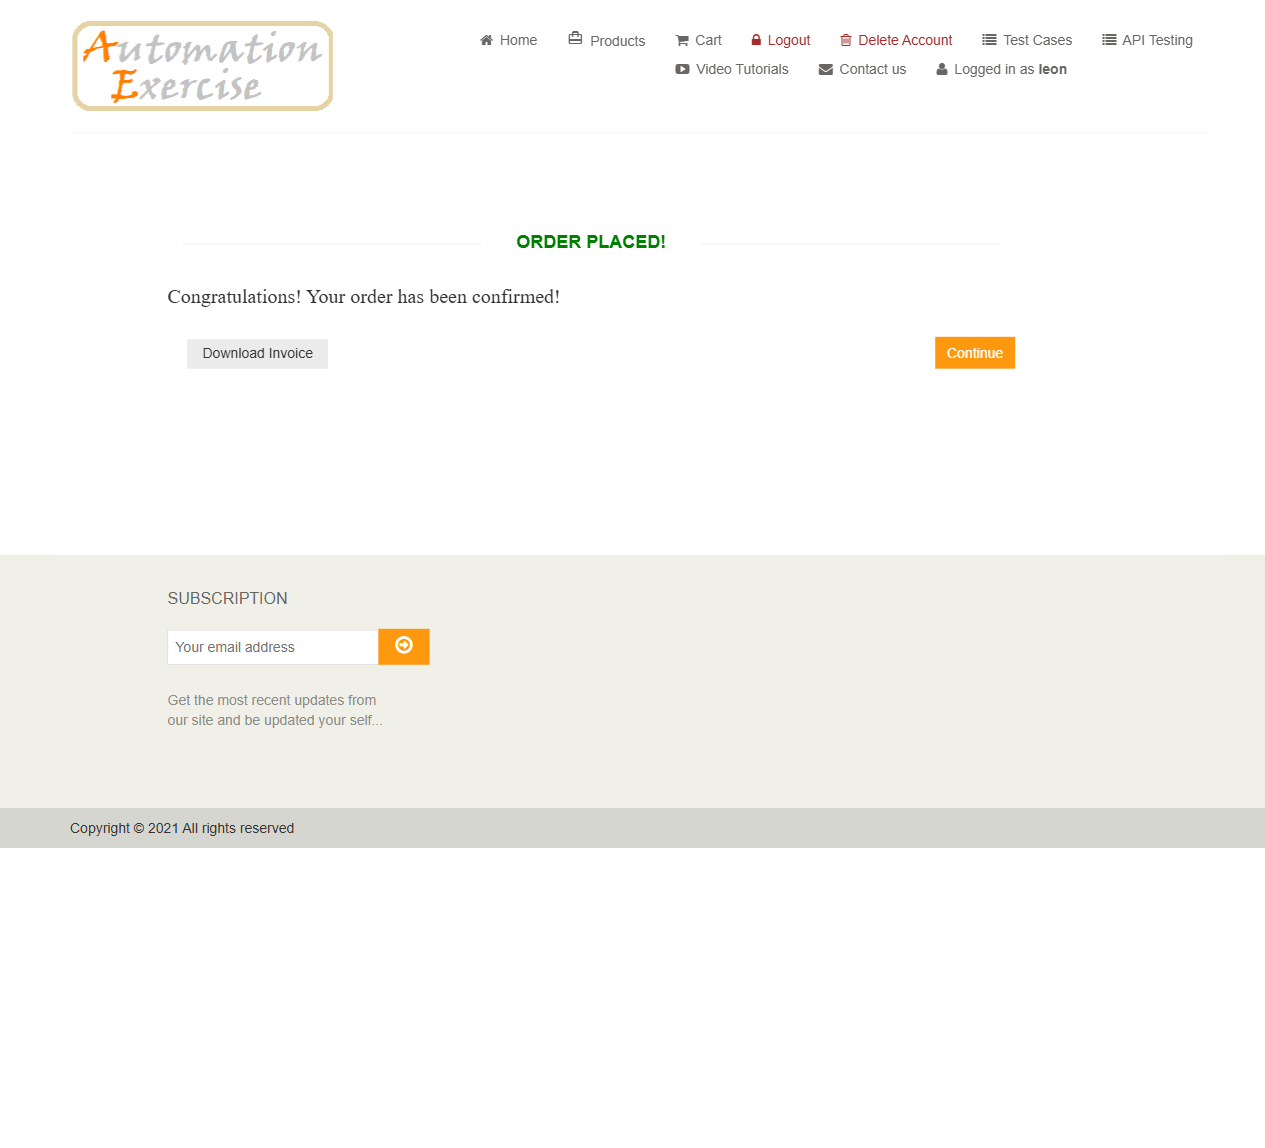
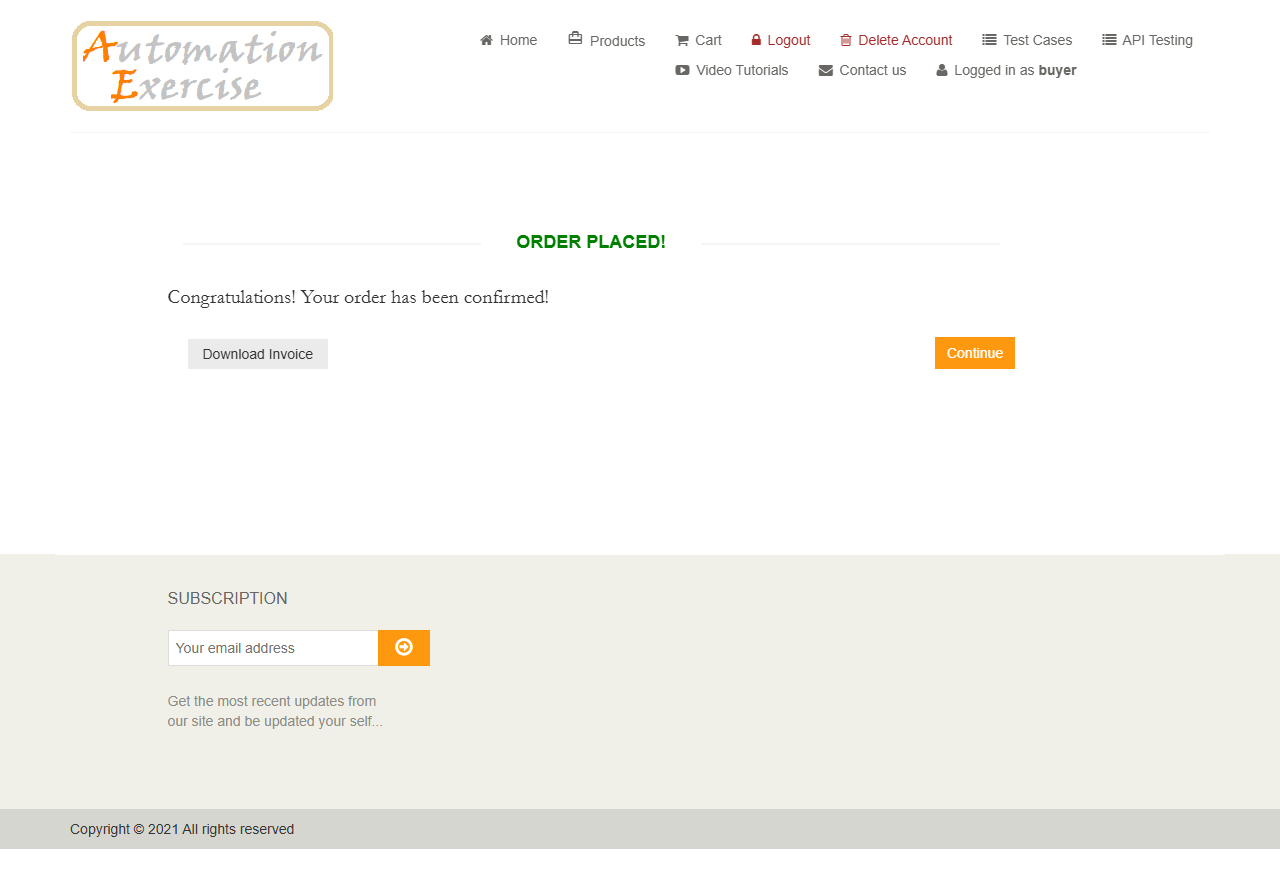
files are modified

diff --git a/steps/contactstep.js b/steps/contactstep.js
@@ -22,6 +22,6 @@ import config from "../config/config.js";
        
          When('user click the home button',async function () {
           await this.contact.clickHomeButton()
-          await validation.url(this.page, `${config.base_url}`)
+          await validation.url(this.page,`${config.base_url}`)
          });
        

diff --git a/steps/payment.step.js b/steps/payment.step.js
@@ -16,7 +16,7 @@ import config from '../config/config.js'
          });
        
          Then('user should see the payment done url',async function () {
-          await validation.url(this.page,`${config.base_url}payment_done/0`)
           await this.payment.order()
+          await validation.url(this.page,`${config.base_url}`)
          });
        

diff --git a/utils/validation.js b/utils/validation.js
@@ -17,6 +17,7 @@ class Validation{
         await expect(page).toHaveURL(expectedUrl)
     }
 
+
    
  }
 